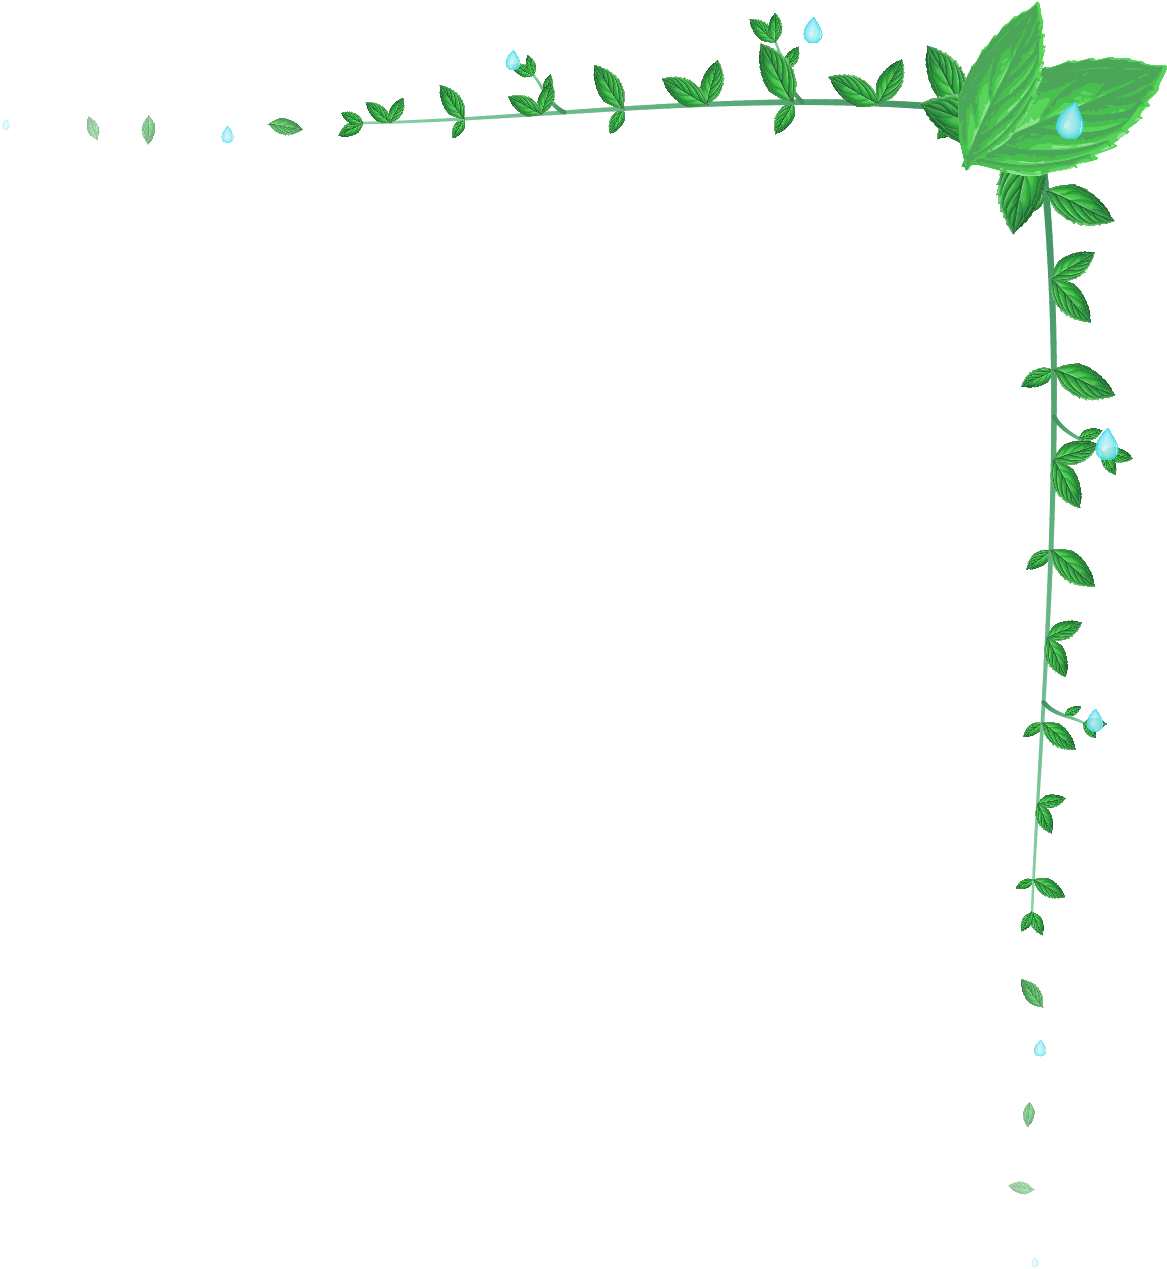
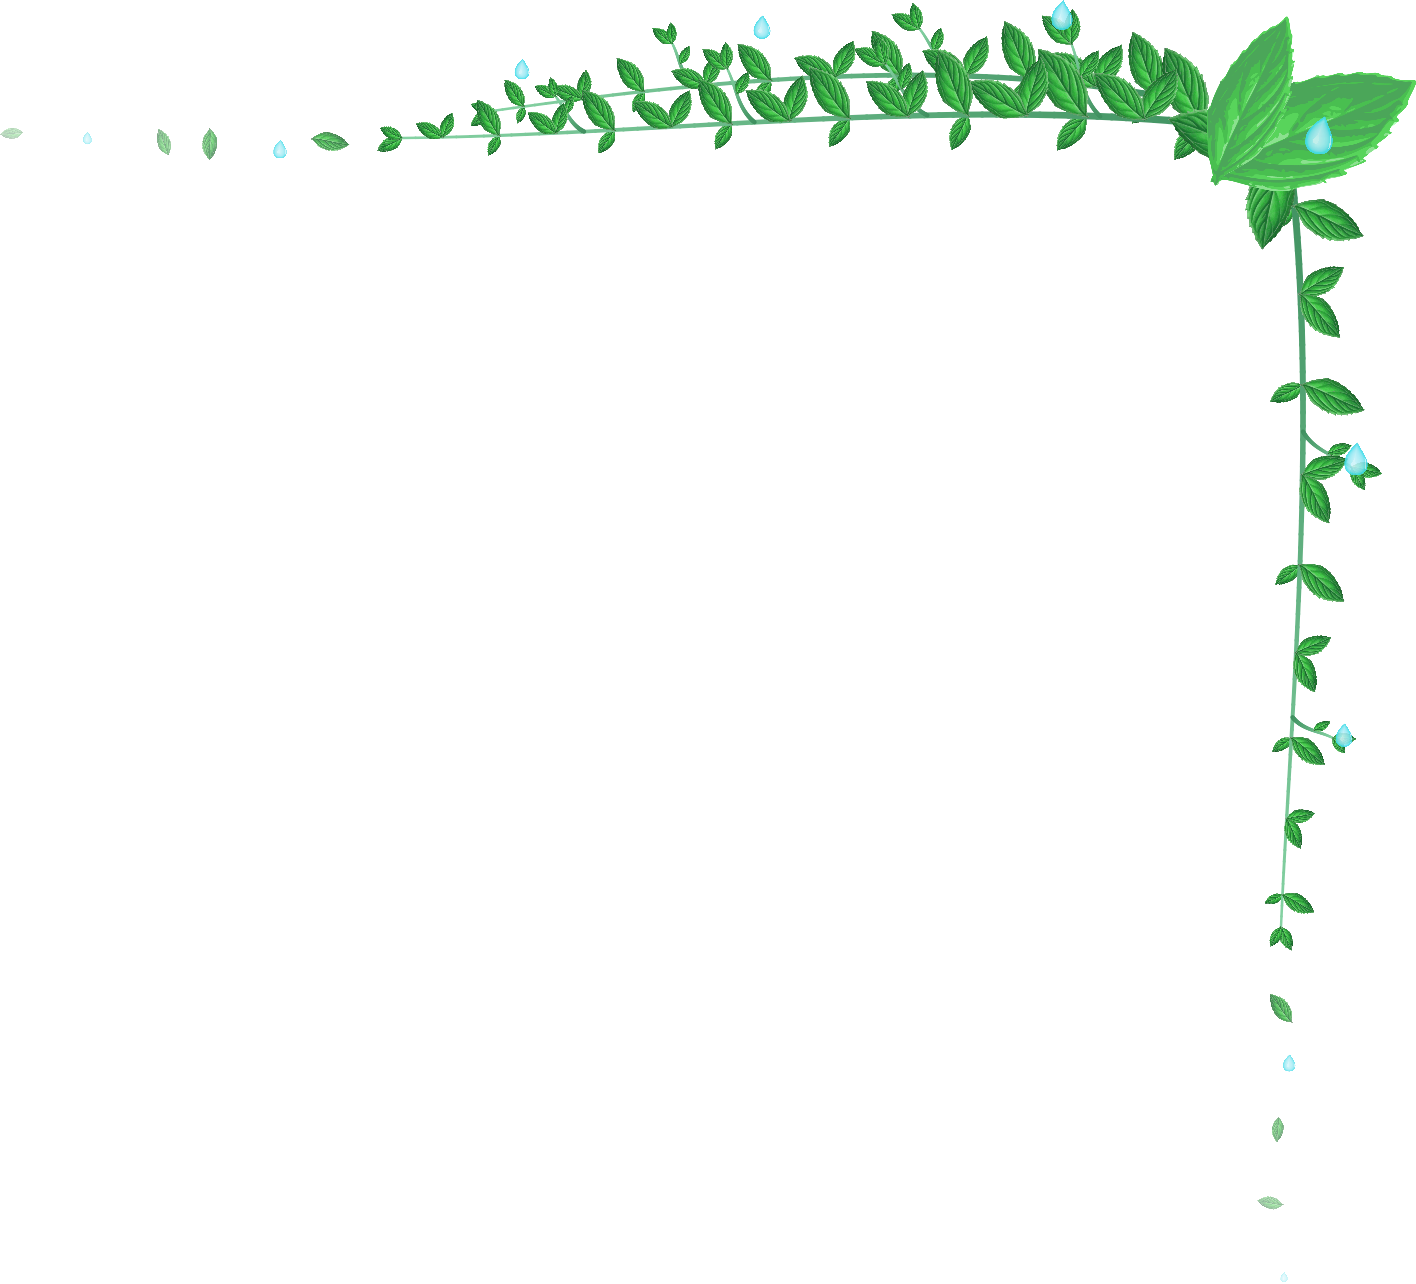
薄荷绿主题窗口点缀上边加密：左上往右、右上往左两段各在后面垫一枝稍高的薄荷叠出层次，主枝对生叶和小侧枝加多，右上往左那枝拉长；来源说明改回 LF 换行

diff --git a/dstools/qt/ornaments.py b/dstools/qt/ornaments.py
@@ -53,13 +53,13 @@ _SPRITES: dict[str, tuple[Sprite, ...]] = {
         Sprite("campfire_fire.png", 1, 1, -147, -150.5, 337),
     ),
     "mint": (
-        # 从左上角沿上边框向右、沿左边框向下各一枝对生叶的薄荷，越往梢叶子越小，梢后小叶和露珠渐稀渐淡
-        Sprite("mint_spray_right.png", 0, 0, 337.5, -24, 56),
+        # 从左上角沿上边框向右伸出前后叠着的两枝对生叶薄荷、沿左边框向下一枝，越往梢叶子越小，梢后小叶和露珠渐稀渐淡
+        Sprite("mint_spray_right.png", 0, 0, 342.5, -27, 62),
         Sprite("mint_spray_down.png", 0, 0, -22.5, 285.5, 515),
         # 左上主角：一簇薄荷叶压在拐角上，叶面挂露珠，后创建的小窗叠在两枝上面
         Sprite("mint_cluster.png", 0, 0, -2, -10.5, 123),
-        # 右上呼应：拐角一对大叶，沿上边往左、沿右边往下各一枝，叶间挂着水珠
-        Sprite("mint_spray_corner.png", 1, 0, -146.5, 167.5, 423),
+        # 右上呼应：拐角一对大叶，沿上边往左两枝叠着、沿右边往下一枝，叶间挂着水珠
+        Sprite("mint_spray_corner.png", 1, 0, -188, 165, 428),
         # 右下角：窗内拐角一簇叶子，一枝小薄荷贴着下边缘往左伸，小叶和露珠沿下边缘往左、沿右边往上散开；左下角留白
         Sprite("mint_spray_bottom.png", 1, 1, -210.5, -115.5, 243),
     ),
